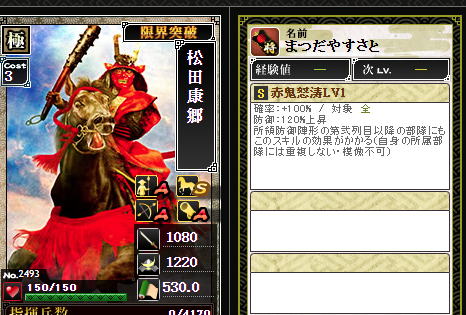
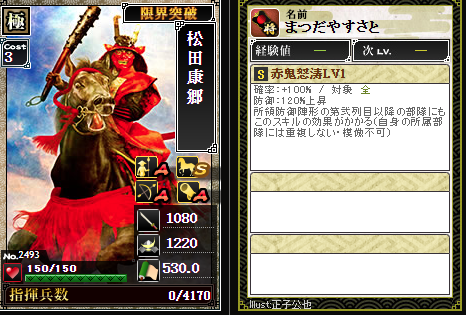
ホバー画像が別の欄の絵を出していたのを直す + 2/3に縮める + No.2493を切り抜き直す
■ 別の欄の絵が出ていた(うぐさん報告)

部隊長にカーソルを置いたのに小隊3の武将の絵が出ていた。

**絵は4欄で1枚を使い回しているのに、「いまどの番号を入れたか」を欄ごとに
覚えていた。** 別の欄が絵を差し替えても、こちらの欄は「自分が入れた番号の
ままだ」と思い込んで読み込みを省き、他人の絵をそのまま出していた。

覚える場所を絵と同じ1つにした。差し替えのあいだは前の絵を消し、
読み込み終わってもカーソルが既に別の欄へ移っていたら出さない。

■ 大きさ

224x315 は邪魔なので 2/3(149x210)にした(うぐさん指示)。

■ No.2493

元のスクリーンショットがカードの上36pxを切らしており、正しい224x315が
取れていなかった(19px下にずれていた)。撮り直してもらって切り抜き直した。

■ 確かめたこと

4欄に別々の武将を入れて順にカーソルを移し、**出ている絵のファイル名**まで
見た。「出ている」だけでは今回の不具合は見つけられない。

そのとき分かったこと: **シミュレーターの武将DB(generalGrowthDB)は575件で、
今日入れた天199体・序137体が入っていない。** 一覧ページには出るが
シミュレーターでは名前が解決しないので、絵も出ない。別途対応が要る。

diff --git a/attack-simulator.html b/attack-simulator.html
@@ -506,7 +506,8 @@
     padding:3px; box-shadow:0 4px 14px rgba(0,0,0,0.28);
   }
   .gen-art-pop.show{display:block;}
-  .gen-art-pop img{display:block; width:224px; height:315px;}
+  /* 元の絵は224x315。邪魔なので2/3にする(うぐさん指示 2026-08-16) */
+  .gen-art-pop img{display:block; width:149px; height:210px;}
   @media (max-width:640px){ .gen-art-pop{display:none !important;} }
 
   .sim-version-badge{
@@ -865,7 +866,7 @@
   // 【必須】attack-simulator.html を変更したコミットでは、必ずこの定数も一緒に更新すること。
   // 表示文言の変更・CSSの微調整であっても対象(ユーザーがスクショで版を判別できなくなるため)。
   // 更新忘れが繰り返し発生しているので、編集したらコミット前にここを見に来る。
-  const SIMULATOR_VERSION = 'v2026-08-16.11';
+  const SIMULATOR_VERSION = 'v2026-08-16.12';
   document.addEventListener('DOMContentLoaded', ()=>{
     const badge = document.getElementById('simVersionBadge');
     if(badge) badge.textContent = SIMULATOR_VERSION;
@@ -5023,6 +5024,10 @@
   // 失敗した番号は覚えておいて二度は取りにいかない。
   let genArtPop = null;
   const genArtMissing = new Set();
+  // **いま <img> に入っている番号は4欄で1つ。** ここを欄ごとに覚えていたせいで、
+  // 別の欄にカーソルを移したとき前の欄の絵がそのまま出ていた(2026-08-16 うぐさん報告)。
+  let genArtNo = null;
+  let genArtPos = {x: 0, y: 0};
 
   function ensureGenArtPop(){
     if(genArtPop) return genArtPop;
@@ -5039,38 +5044,50 @@
 
   // カーソルの右下に出す。画面からはみ出すときは左/上へ回す。
   function placeGenArt(ev){
+    if(ev){ genArtPos = {x: ev.clientX, y: ev.clientY}; }
     if(!genArtPop || !genArtPop.classList.contains('show')) return;
-    const W = 232, H = 323, pad = 14;
-    let x = ev.clientX + pad;
-    let y = ev.clientY + pad;
-    if(x + W > window.innerWidth) x = ev.clientX - W - pad;
+    const W = 157, H = 218, pad = 14;
+    let x = genArtPos.x + pad;
+    let y = genArtPos.y + pad;
+    if(x + W > window.innerWidth) x = genArtPos.x - W - pad;
     if(y + H > window.innerHeight) y = Math.max(4, window.innerHeight - H - 4);
     genArtPop.style.left = Math.max(4, x) + 'px';
     genArtPop.style.top = y + 'px';
   }
 
+  function showGenArtFor(input, ev){
+    const entry = findGeneralEntry(input.value);
+    const no = entry ? String(entry.no) : '';
+    if(!no || genArtMissing.has(no)){ hideGenArt(); return; }
+    const pop = ensureGenArtPop();
+    const img = pop.querySelector('img');
+    if(ev) genArtPos = {x: ev.clientX, y: ev.clientY};
+    if(genArtNo === no){
+      if(img.complete && img.naturalWidth){ pop.classList.add('show'); placeGenArt(); }
+      return;
+    }
+    // 別の武将に変わるあいだ、前の絵を出したままにしない
+    genArtNo = no;
+    pop.classList.remove('show');
+    img.onload = () => {
+      if(genArtNo !== no) return;   // 読み込み中にカーソルが移っていたら捨てる
+      pop.classList.add('show');
+      placeGenArt();
+    };
+    img.onerror = () => {
+      genArtMissing.add(no);
+      if(genArtNo === no) hideGenArt();
+    };
+    img.src = 'assets/img/characters/no' + no + '_char.png';
+  }
+
   function attachGeneralArtHover(input){
     if(!input) return;
-    let shownNo = null;
-    input.addEventListener('mouseenter', ev => {
-      const entry = findGeneralEntry(input.value);
-      const no = entry ? String(entry.no) : '';
-      if(!no || genArtMissing.has(no)){ hideGenArt(); return; }
-      const pop = ensureGenArtPop();
-      const img = pop.querySelector('img');
-      if(shownNo !== no){
-        shownNo = no;
-        img.onerror = () => { genArtMissing.add(no); hideGenArt(); };
-        img.onload = () => { pop.classList.add('show'); placeGenArt(ev); };
-        img.src = 'assets/img/characters/no' + no + '_char.png';
-      }
-      if(img.complete && img.naturalWidth){ pop.classList.add('show'); }
-      placeGenArt(ev);
-    });
+    input.addEventListener('mouseenter', ev => showGenArtFor(input, ev));
     input.addEventListener('mousemove', placeGenArt);
     input.addEventListener('mouseleave', hideGenArt);
     // 入力中や選び直しの最中に古い絵が残らないようにする
-    input.addEventListener('input', () => { shownNo = null; hideGenArt(); });
+    input.addEventListener('input', hideGenArt);
     input.addEventListener('blur', hideGenArt);
   }
 
